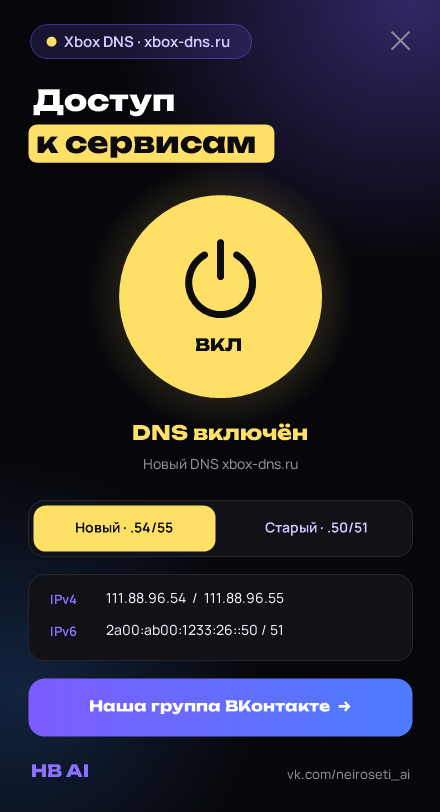
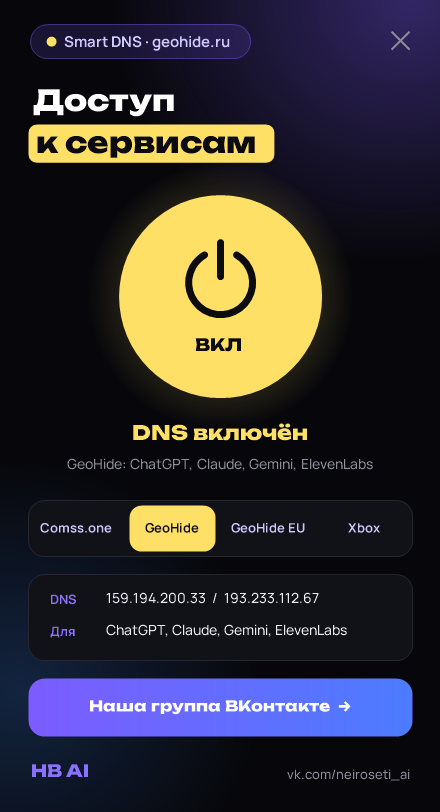
Версия 1.1: выбор Comss.one, GeoHide, GeoHide EU, Xbox; xbox-dns.ru больше не пропускает нейросети

diff --git a/XboxDns.cs b/XboxDns.cs
@@ -1,4 +1,4 @@
-// HB AI · Smart DNS — переключатель Smart DNS (Comss.one, GeoHide, Astracat, xbox-dns.ru) в стиле сообщества «Нейросети и AI на практике».
+// HB AI · Smart DNS — переключатель Smart DNS (Comss.one, GeoHide, xbox-dns.ru) в стиле сообщества «Нейросети и AI на практике».
 // Сборка: build.bat (csc из .NET Framework 4, есть в каждой Windows 10/11).
 using System;
 using System.Diagnostics;
@@ -17,13 +17,14 @@ namespace HbAi.XboxDns
 {
     static class Dns
     {
-        // Сервисы Smart DNS. Проверено 11.10.2026 из России: Comss.one, GeoHide и Astracat отдают прокси
-        // для ChatGPT, Claude, Gemini и ElevenLabs; xbox-dns.ru с 10.10.2026 нейросети не пропускает (0.0.0.0).
-        public static readonly string[] Name = { "Comss.one", "GeoHide", "Astracat", "Xbox DNS" };
+        // Сервисы Smart DNS. Проверено 12.10.2026 из России: Comss.one и GeoHide (Европа) отдают прокси для ChatGPT,
+        // Claude, Gemini и ElevenLabs, российский узел GeoHide — для Gemini и ElevenLabs. xbox-dns.ru с 10.10.2026
+        // нейросети не пропускает (0.0.0.0). Astracat (135.106.217.200) 12.10.2026 не отвечал, из списка убран.
+        public static readonly string[] Name = { "Comss.one", "GeoHide", "GeoHide EU", "Xbox DNS" };
         public static readonly string[][] V4 = {
             new[] { "83.220.169.155", "212.109.195.93" },
             new[] { "159.194.200.33", "193.233.112.67" },
-            new[] { "135.106.217.200" },
+            new[] { "143.20.64.192", "45.13.237.213" },
             new[] { "111.88.96.54", "111.88.96.55" } };
         public static readonly string[][] V6 = {
             new string[0], new string[0], new string[0],
@@ -31,8 +32,8 @@ namespace HbAi.XboxDns
         public static readonly string[] Opens = {
             "ChatGPT, Claude, Gemini, ElevenLabs", "ChatGPT, Claude, Gemini, ElevenLabs",
             "ChatGPT, Claude, Gemini, ElevenLabs", "только Xbox Live, нейросети — нет" };
-        public static readonly string[] Site = { "comss.ru", "geohide.ru", "astracat", "xbox-dns.ru" };
-        public static readonly string[] Url = { "https://www.comss.ru/", "https://geohide.ru/", "https://astracat2022.github.io/dns/", "https://xbox-dns.ru/" };
+        public static readonly string[] Site = { "comss.ru", "geohide.ru", "geohide.ru", "xbox-dns.ru" };
+        public static readonly string[] Url = { "https://www.comss.ru/", "https://geohide.ru/", "https://geohide.ru/", "https://xbox-dns.ru/" };
         // Старые адреса xbox-dns.ru из версии 1.0: если стоят они, показываем Xbox DNS
         static readonly string[] XboxOld = { "111.88.96.50", "111.88.96.51" };
 
@@ -243,7 +244,7 @@ namespace HbAi.XboxDns
                 if (on)
                     using (var path = RoundPath(sr, 12))
                     using (var b = new SolidBrush(Yellow)) g.FillPath(b, path);
-                string label = k == 3 ? "Xbox" : Dns.Name[k];
+                string label = k == 3 ? "Xbox" : k == 2 ? "GeoHide EU" : Dns.Name[k];
                 using (var f = new Font(fBold, 9.5f, GraphicsUnit.Point))
                 using (var b = new SolidBrush(on ? Color.FromArgb(11, 11, 16) : Soft))
                 using (var sf = new StringFormat { Alignment = StringAlignment.Center, LineAlignment = StringAlignment.Center })

diff --git a/tools/probe_dns.py b/tools/probe_dns.py
@@ -6,7 +6,7 @@ import socket, struct, subprocess, sys
 
 CANDIDATES = [
     ("GeoHide", "159.194.200.33"), ("GeoHide-2", "193.233.112.67"), ("GeoHide-EU", "143.20.64.192"),
-    ("Comss.one", "83.220.169.155"), ("Comss.one-2", "212.109.195.93"), ("Astracat", "135.106.217.200"),
+    ("Comss.one", "83.220.169.155"), ("Comss.one-2", "212.109.195.93"), ("Astracat", "135.106.217.200"), ("GeoHide-EU-2", "45.13.237.213"),
     ("XyZ", "109.120.137.190"), ("Malw.link", "95.216.204.218"), ("DNS-AI", "192.144.59.14"),
     ("Xbox DNS", "111.88.96.54"),
 ]
